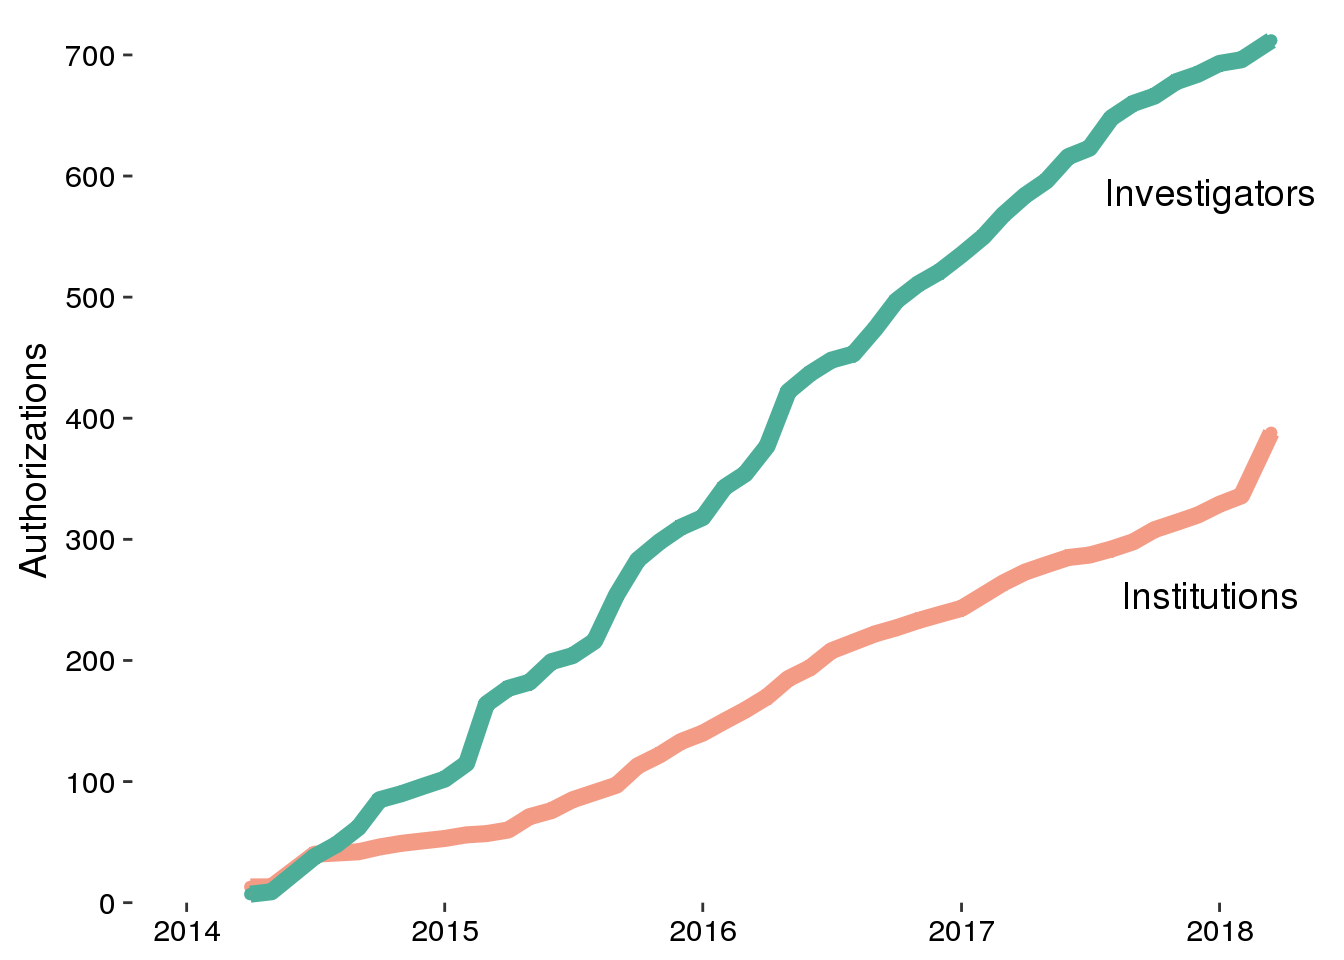
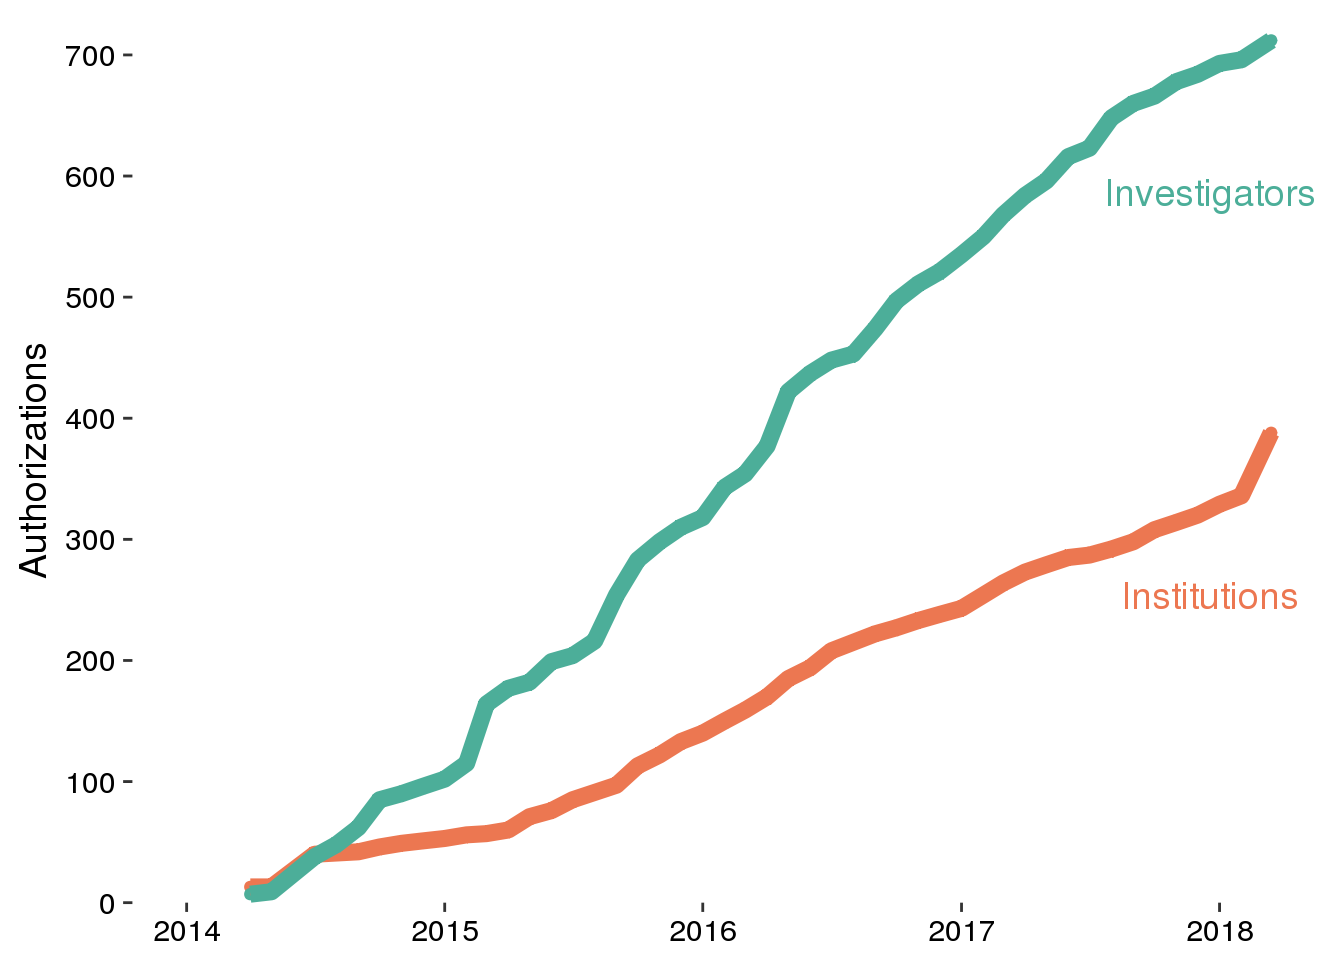
update color

diff --git a/databrary-user-growth.html b/databrary-user-growth.html
@@ -235,7 +235,7 @@ div.tocify {
 
 <h1 class="title toc-ignore">databrary-user-growth</h1>
 <h4 class="author"><em>Andrea R. Seisler</em></h4>
-<h4 class="date"><em>2018-03-16 12:43:54</em></h4>
+<h4 class="date"><em>2018-03-16 13:14:07</em></h4>
 
 </div>
 
@@ -294,7 +294,7 @@ p &lt;-
   geom_point() + 
   geom_line(size=3) +
   theme_classic(base_size = 14) +                        #Axis Label Size
-  scale_colour_manual(values=c(&quot;#F49B85&quot;, &quot;#4CAE99&quot;)) +  #Saturated Databrary Colors 
+  scale_colour_manual(values=c(&quot;#ec7751&quot;, &quot;#4CAE99&quot;)) +  #Saturated Databrary Colors 
   ylab(&quot;Authorizations&quot;) +
   #xlab(&quot;Year&quot;) +
   #labs(title=&quot;Databrary User Growth&quot;) +
@@ -306,8 +306,8 @@ p &lt;-
   
   
 ggdraw(p) + 
-  draw_label(&quot;Investigators&quot;, .9, .8) +
-  draw_label(&quot;Institutions&quot;, .9, .38)</code></pre>
+  draw_label(&quot;Investigators&quot;, colour = &quot;#4CAE99&quot;, .9, .8) +
+  draw_label(&quot;Institutions&quot;, colour = &quot;#ec7751&quot;, .9, .38)</code></pre>
 <pre><code>## Warning: Removed 6 rows containing missing values (geom_point).</code></pre>
 <pre><code>## Warning: Removed 6 rows containing missing values (geom_path).</code></pre>
 <p><img src="databrary-user-growth_files/figure-html/p-user-growth-plot-1.png" width="672" /></p>
